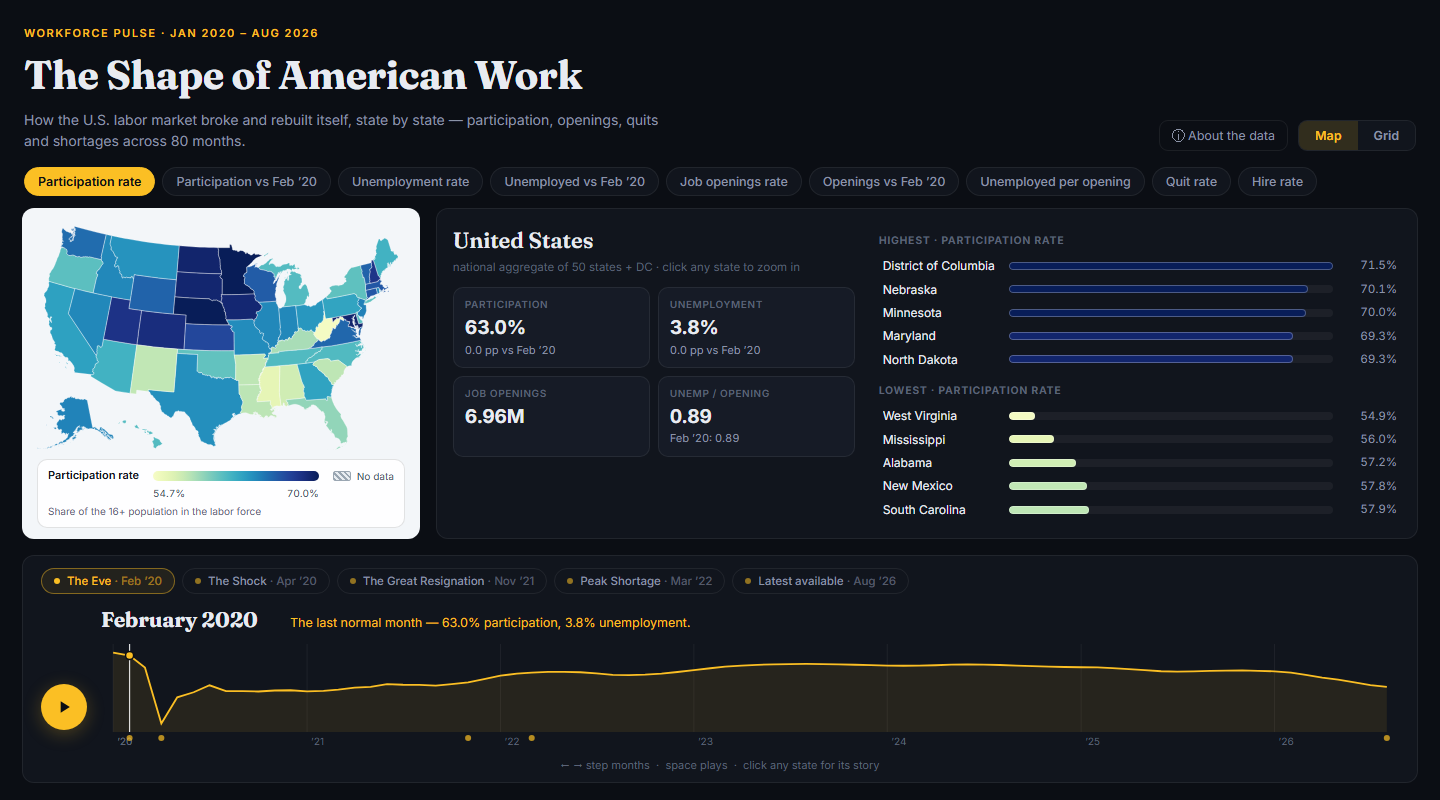
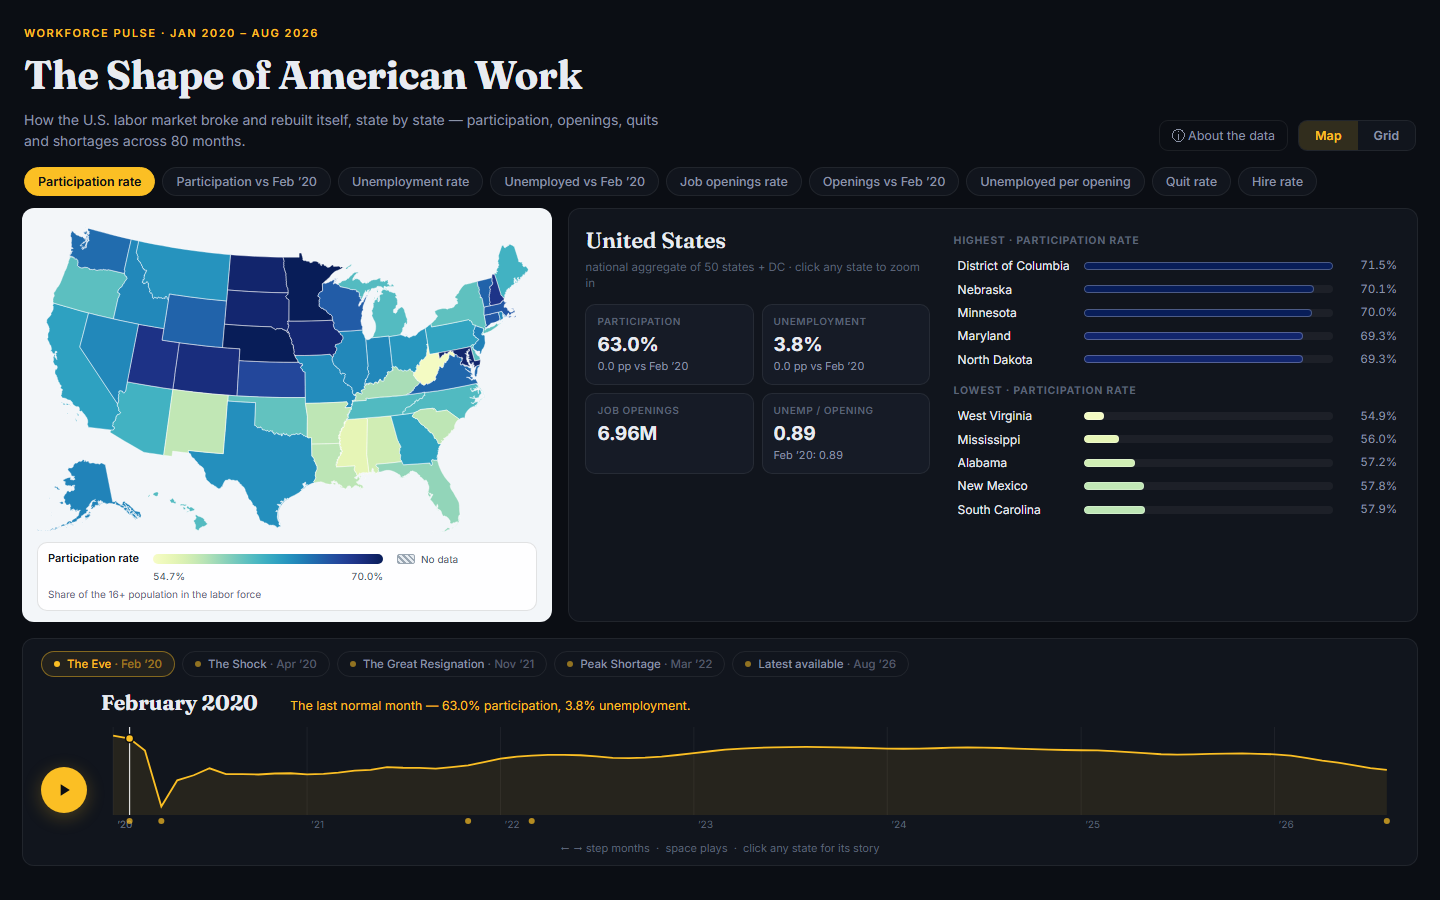
Restore the map panel to 38% of the row on desktop
The 28.5% panel from the previous commit made the map too small. This
returns the panel to 38% of the row (no minimum width) and the legend bar
to its 120px minimum, so the map is about 500x313px at a 1440px window.
The October 2025 interpolation and the two-column side panel stay.

diff --git a/styles.css b/styles.css
@@ -478,9 +478,9 @@ main {
    panel takes the remaining width in two columns, so neither panel carries empty space. The tile
    grid gets a wider panel so its state labels stay readable. */
 @media (min-width: 1021px) {
-  #mapWrap { flex: 0 0 28.5%; min-width: 340px; display: flex; flex-direction: column; justify-content: center; padding: 12px 14px 10px; }
+  #mapWrap { flex: 0 0 38%; display: flex; flex-direction: column; justify-content: center; padding: 12px 14px 10px; }
   #mapWrap.grid-view { flex-basis: 55%; }
-  #legend { position: static; display: grid; grid-template-columns: max-content minmax(90px, 230px) max-content; align-items: center; gap: 2px 14px; margin-top: 8px; padding: 8px 10px; backdrop-filter: none; }
+  #legend { position: static; display: grid; grid-template-columns: max-content minmax(120px, 230px) max-content; align-items: center; gap: 2px 14px; margin-top: 8px; padding: 8px 10px; backdrop-filter: none; }
   #legend .lg-title { grid-column: 1; grid-row: 1; margin: 0; }
   #legend .lg-bar { grid-column: 2; grid-row: 1; width: 100%; }
   #legend .lg-labels { grid-column: 2; grid-row: 2; margin: 0; }

diff --git a/index.html b/index.html
@@ -8,7 +8,7 @@
 <link rel="preconnect" href="https://fonts.googleapis.com">
 <link rel="preconnect" href="https://fonts.gstatic.com" crossorigin>
 <link href="https://fonts.googleapis.com/css2?family=Fraunces:opsz,wght@9..144,600;9..144,700&family=Inter:wght@400;500;600;700&display=swap" rel="stylesheet">
-<link rel="stylesheet" href="styles.css?v=20260926-oct">
+<link rel="stylesheet" href="styles.css?v=20260927-size">
 </head>
 <body>
 
